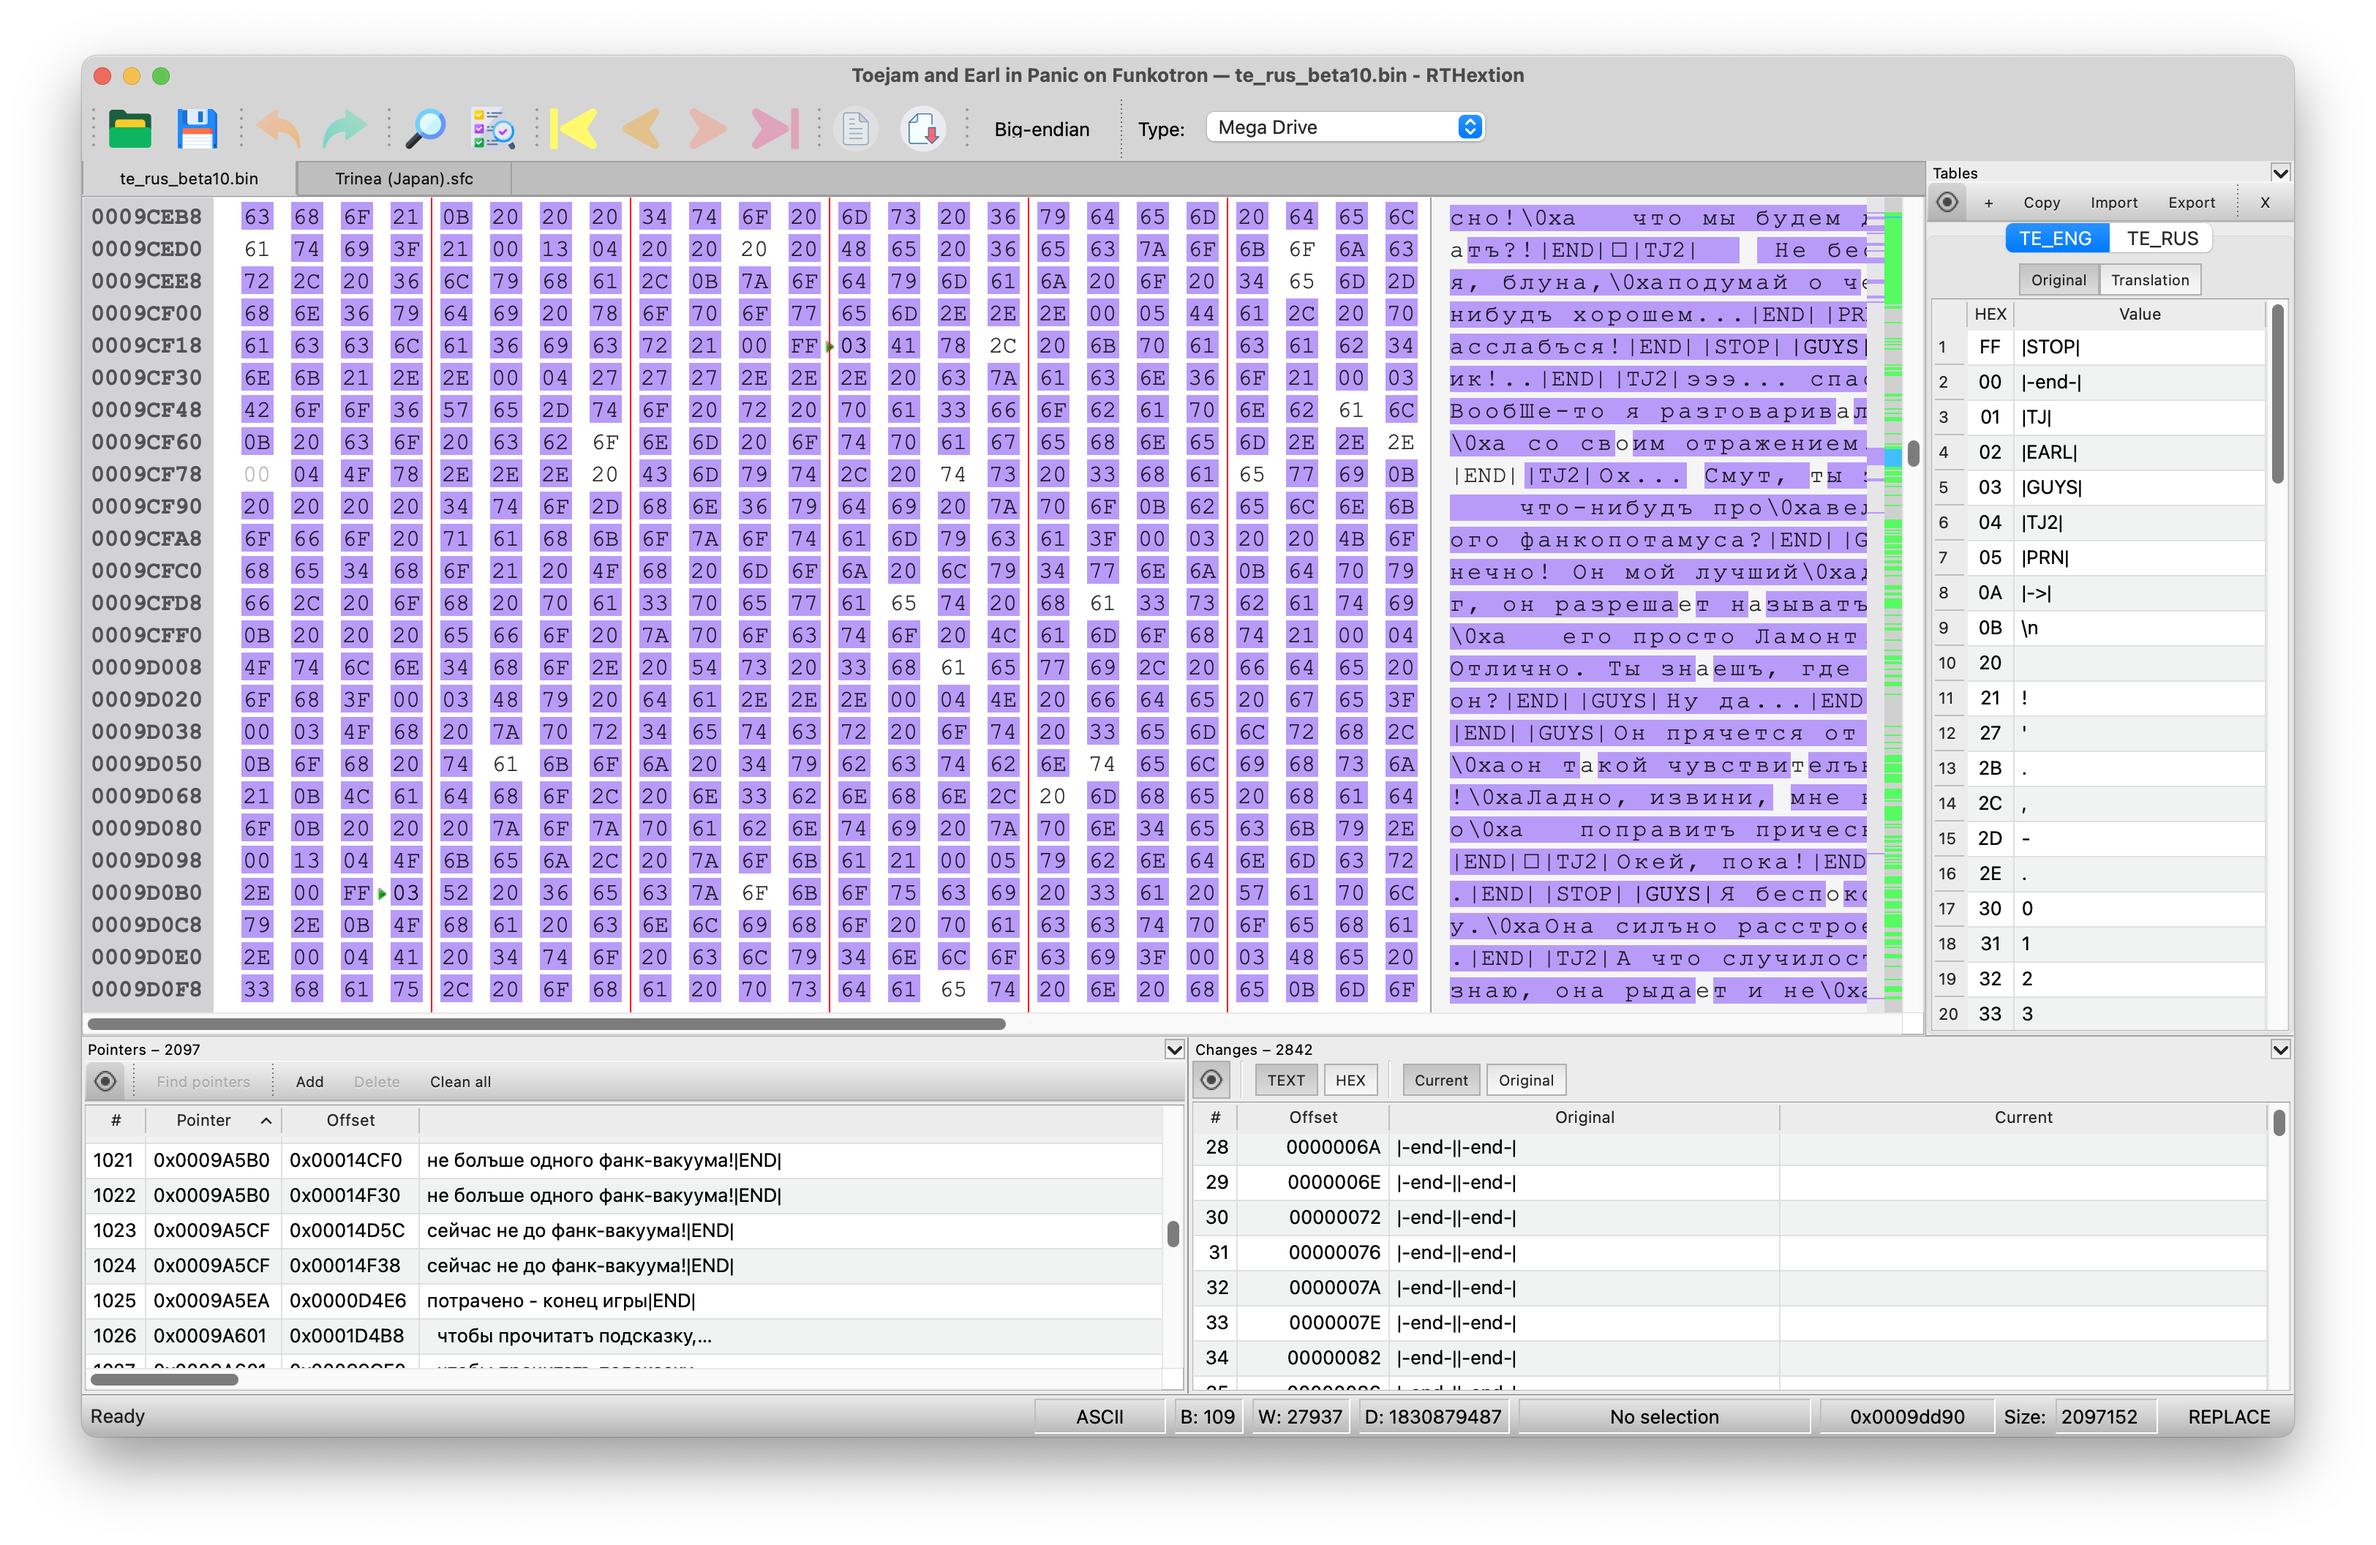
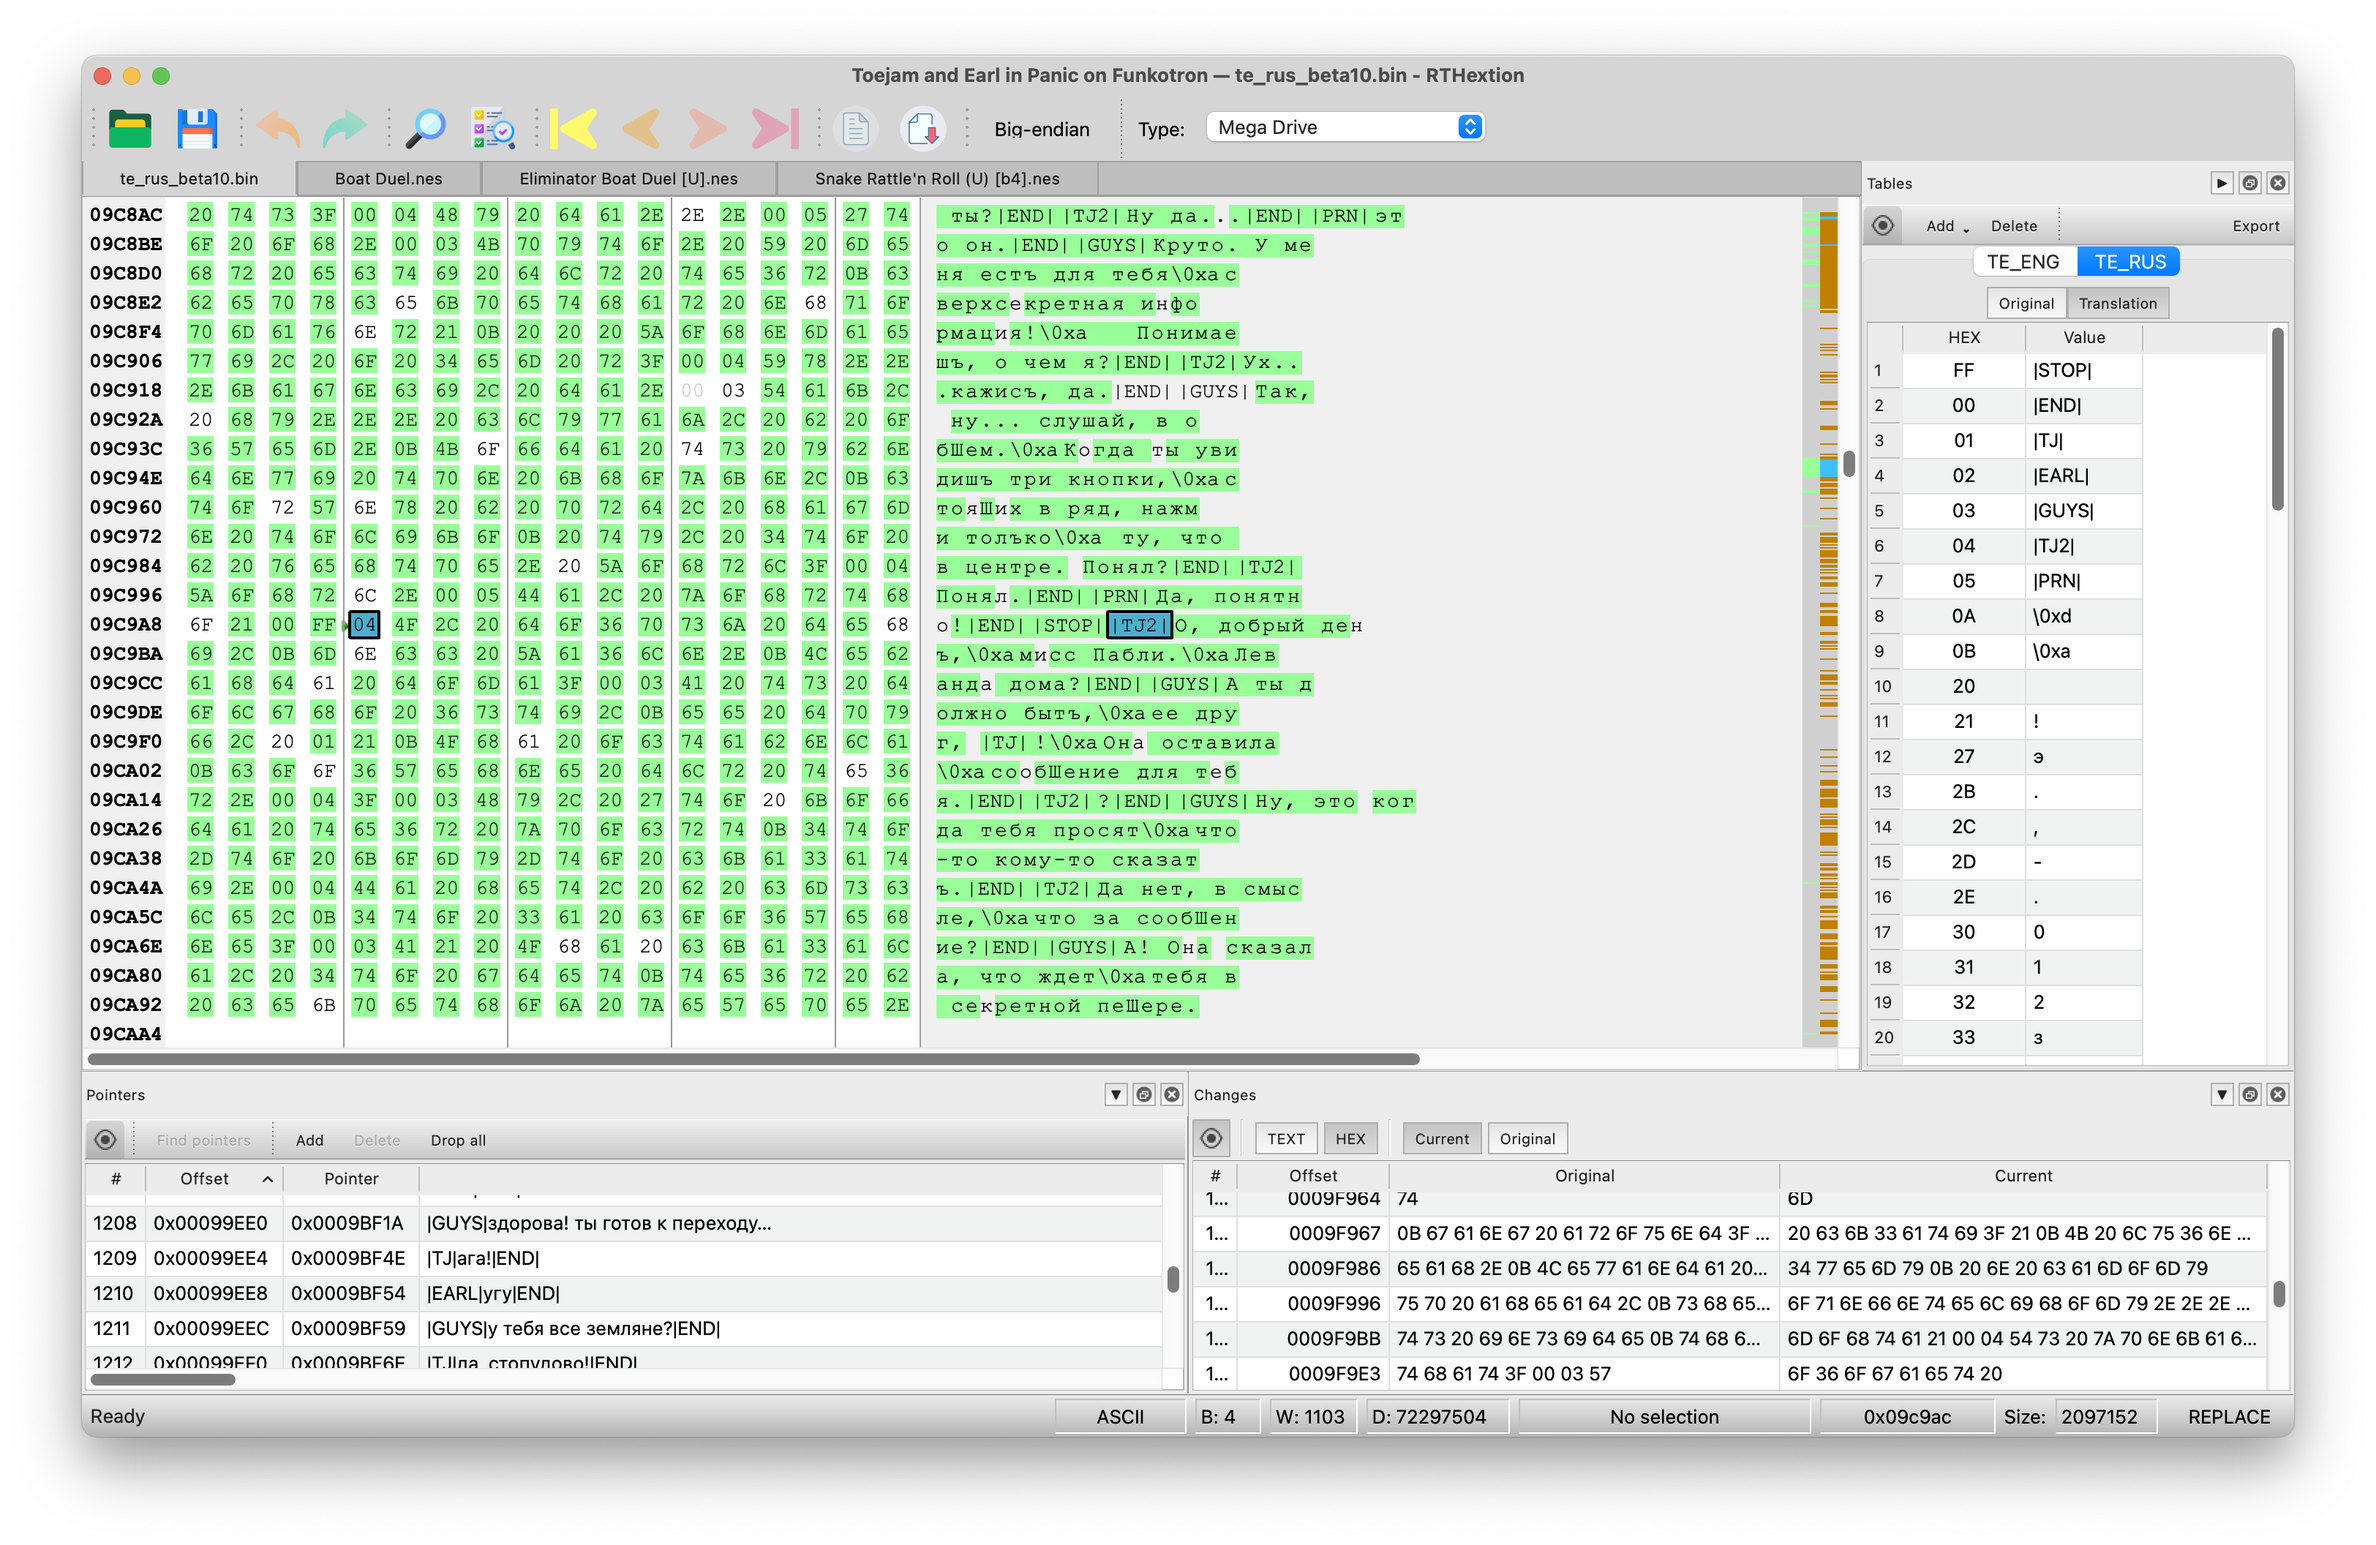
Version bumped

diff --git a/src/appinfo.h b/src/appinfo.h
@@ -3,7 +3,7 @@
 
 namespace AppInfo {
 inline constexpr const char* Name = "RTHextion";
-inline constexpr const char *Version = "2.0 alpha";
+inline constexpr const char *Version = "2.0 beta 1";
 }
 
 #endif

diff --git a/CHANGELOG.md b/CHANGELOG.md
@@ -2,6 +2,16 @@
 
 All notable changes to this project will be documented in this file.
 
+## [v2.0 beta 1] - 2026-03-31
+
+### Fixed
+- Fixed various minor bugs and edge cases in pointer handling, translation table application
+- Dock windows collapsing/expanding and visibility toggling fixed
+
+### Changed
+- Find/Replace functionality significantly improved with separate tables support and better UX
+- Empty file editing — click in the hex or ASCII area of an empty file to create the first byte and immediately start typing
+
 ## [v2.0 alpha] - 2026-03-20
 
 ### Added
@@ -10,23 +20,21 @@ All notable changes to this project will be documented in this file.
   - Pointers/data list
   - Original data import/preservation for safe editing and comparison
   - IPS patch generation and import
-- Table editor moved into a side dock widget for easier access and multi-table management
 - New "Changes" dock widget:
   - Live list of all modifications to the current file
   - Hex/Text display modes
   - Tables support
   - Clickable entries for quick navigation to changes
 - New Pointers dock widget:
-  - Pointer list with clickable entries for quick navigation
-- **Persistent multi-tab sessions** — all open files and projects, their positions, and translation table/pointer dock state now saved automatically on exit and restored on next launch
-- Empty file editing — click in the hex or ASCII area of an empty file to create the first byte and immediately start typing
+  - Pointer list with clickable entries for quick navigation and pointer management
+- Persistent multi-tab sessions — all open files and projects, their positions, and translation table/pointer dock state now saved automatically on exit and restored on next launch
 
 ### Fixed
 - Missing and incorrect translations
 
 ### Changed
+- Table editor moved into a side dock widget for easier access and multi-table management
 - Find pointers window lost the pointers list for pointers widget
-- Table editor dialog replaced with a dock widget for better workflow integration and multi-table management
 
 ## [v1.1.6] - 2026-03-14
 

diff --git a/README.md b/README.md
@@ -27,6 +27,7 @@ A hex editor for retrogames translation and ROMHacking, a tribute to 00's Transl
 
 <img src="assets/general_view_1.png" alt="General view" width="600" />
 <img src="assets/general_view_2.png" alt="General view" width="600" />
+<img src="assets/find-replace.png" alt="Find/Replace window" width="600" />
 <img src="assets/pointer_quick_search.png" alt="Pointer quick search" width="600" />
 <img src="assets/find_pointers.png" alt="Pointers search window" width="600" />
 <img src="assets/pointer_hint.png" alt="Pointer hint" width="600" />
